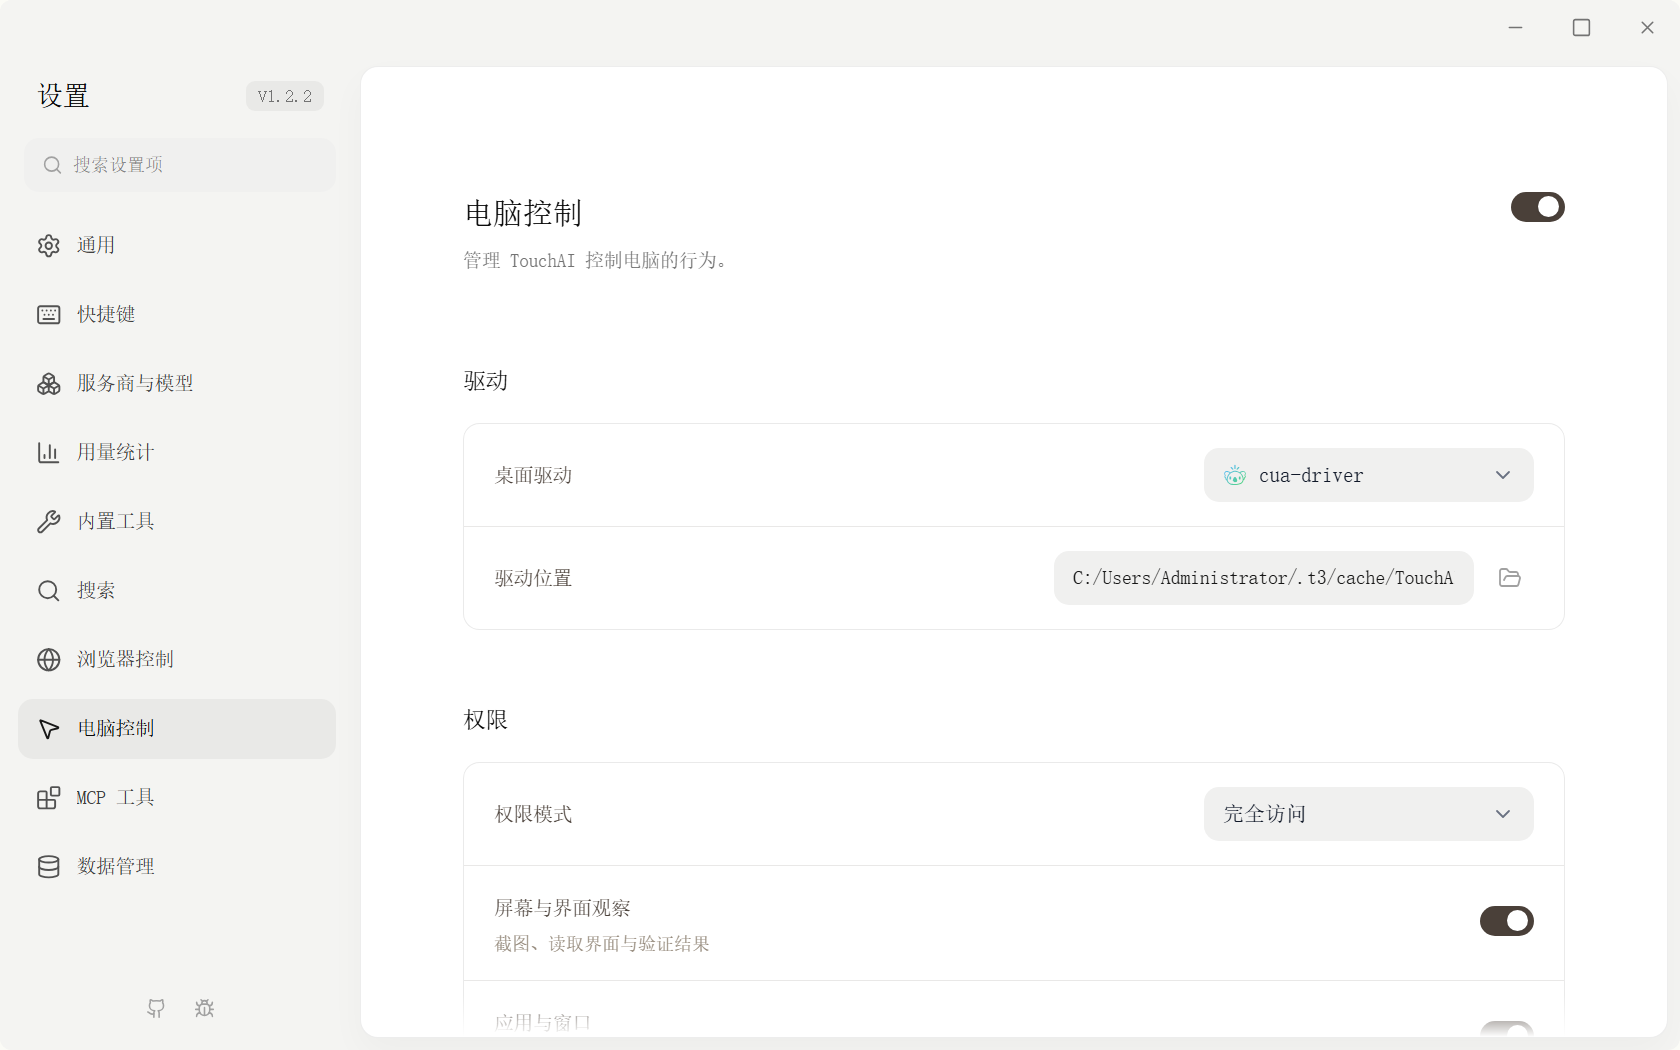
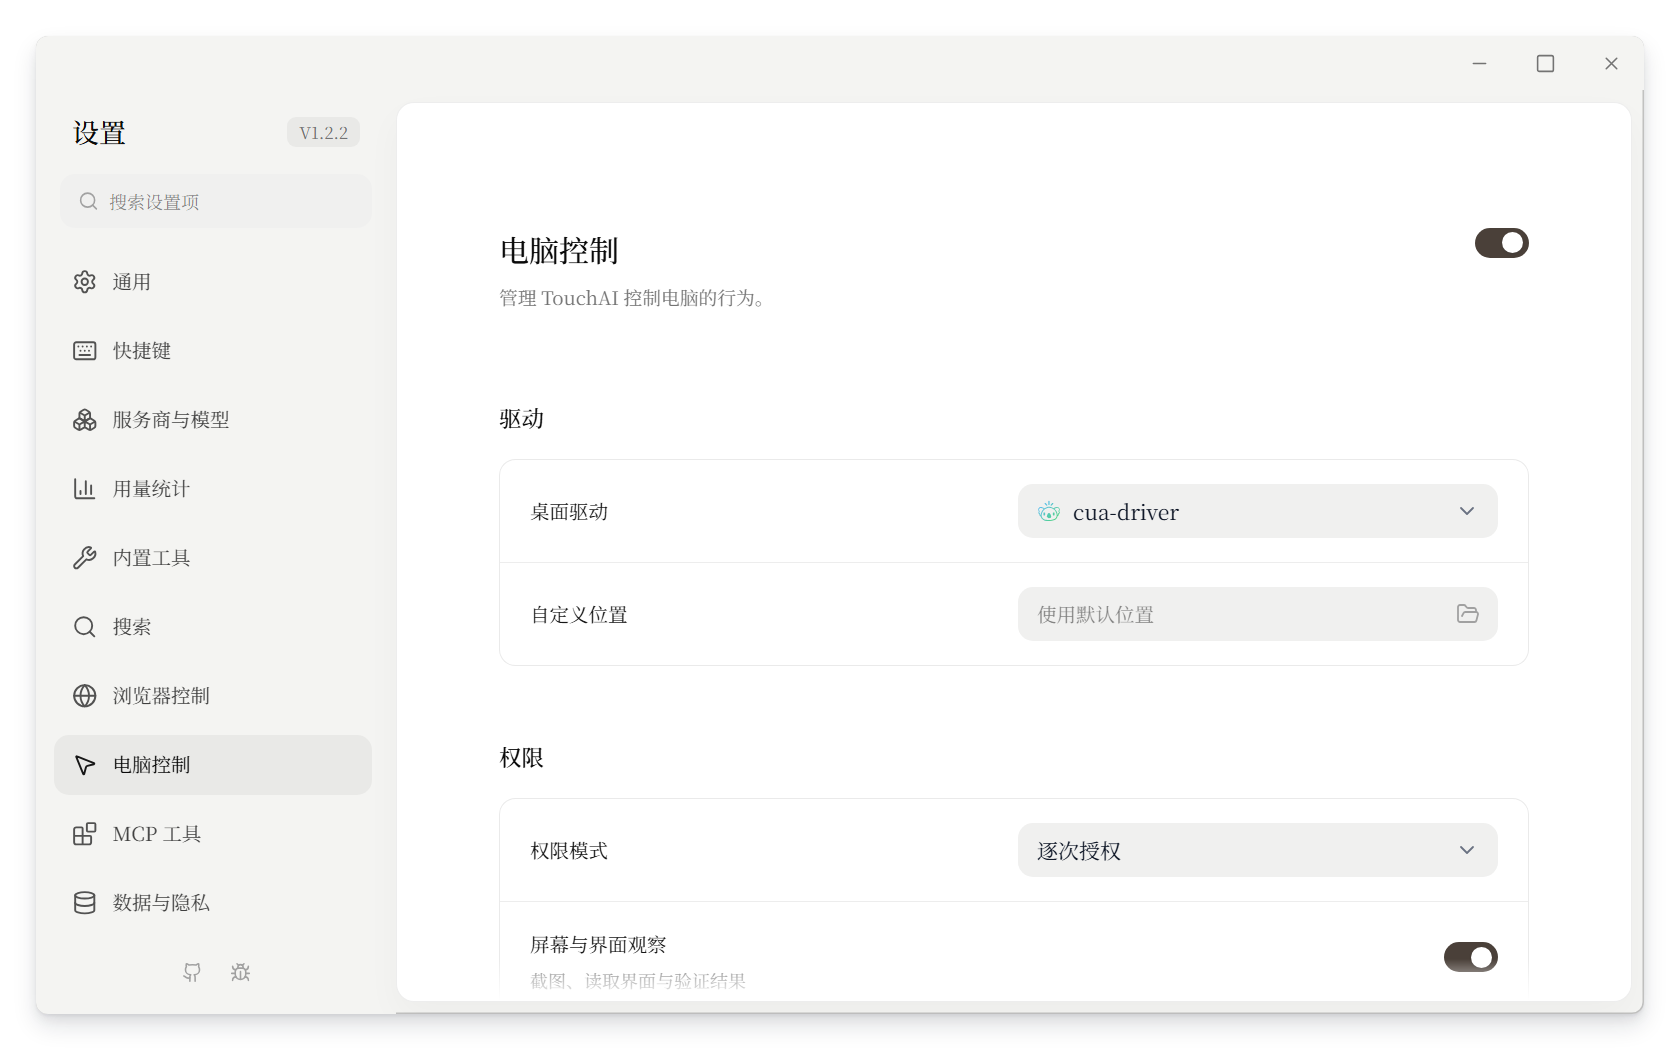
fix(settings): align computer control fields

diff --git a/apps/desktop/src/views/SettingsView/components/ComputerUse/index.vue b/apps/desktop/src/views/SettingsView/components/ComputerUse/index.vue
@@ -94,7 +94,7 @@
             }).format(bytes / 1_000_000);
             details.push(size);
         }
-        return details.join(' · ') || undefined;
+        return details.join(' ') || undefined;
     }
 
     const approvalOptions = computed(() =>
@@ -486,7 +486,6 @@
                         <SettingsRow
                             data-settings-search-target="computer-use-driver"
                             control-width="320"
-                            control-class="pr-10"
                             :label="t('settings.computerUse.field.driver')"
                             :description="status?.error || undefined"
                         >
@@ -570,27 +569,29 @@
                         <SettingsRow
                             data-settings-search-target="computer-use-driver-directory"
                             control-width="320"
-                            control-class="flex items-center gap-2"
+                            control-class="relative"
                             label-as="label"
                             label-for="computer-use-driver-directory"
                             :label="t('settings.computerUse.field.driverDirectory')"
                         >
-                            <div class="relative min-w-0 flex-1">
-                                <Input
-                                    id="computer-use-driver-directory"
-                                    data-testid="computer-use-driver-directory"
-                                    variant="filled"
-                                    :class="{ 'pr-9': driverDirectory }"
-                                    :model-value="driverDirectory"
-                                    :title="driverDirectory"
-                                    :disabled="driverDisabled"
-                                    readonly
-                                />
+                            <Input
+                                id="computer-use-driver-directory"
+                                data-testid="computer-use-driver-directory"
+                                variant="filled"
+                                :class="driverDirectory ? 'pr-18' : 'pr-10'"
+                                :model-value="driverDirectory"
+                                :placeholder="t('settings.computerUse.driverDirectory.default')"
+                                :title="driverDirectory"
+                                :disabled="driverDisabled"
+                                readonly
+                            />
+                            <div
+                                class="absolute top-1/2 right-1 flex -translate-y-1/2 items-center gap-1"
+                            >
                                 <Button
                                     v-if="driverDirectory"
                                     data-testid="computer-use-driver-directory-reset"
                                     variant="ghost-neutral"
-                                    class="absolute top-1/2 right-1 -translate-y-1/2"
                                     :aria-label="
                                         t('settings.computerUse.action.resetDriverDirectory')
                                     "
@@ -600,18 +601,19 @@
                                 >
                                     <AppIcon name="x" class="h-4 w-4" />
                                 </Button>
+                                <Button
+                                    data-testid="computer-use-driver-directory-pick"
+                                    variant="ghost-neutral"
+                                    :aria-label="
+                                        t('settings.computerUse.action.pickDriverDirectory')
+                                    "
+                                    :title="t('settings.computerUse.action.pickDriverDirectory')"
+                                    :disabled="driverDisabled"
+                                    @click="pickDriverDirectory"
+                                >
+                                    <AppIcon name="folder-open" class="h-4 w-4" />
+                                </Button>
                             </div>
-                            <Button
-                                data-testid="computer-use-driver-directory-pick"
-                                variant="ghost-neutral"
-                                class="shrink-0"
-                                :aria-label="t('settings.computerUse.action.pickDriverDirectory')"
-                                :title="t('settings.computerUse.action.pickDriverDirectory')"
-                                :disabled="driverDisabled"
-                                @click="pickDriverDirectory"
-                            >
-                                <AppIcon name="folder-open" class="h-4 w-4" />
-                            </Button>
                         </SettingsRow>
                     </div>
                 </section>
@@ -624,7 +626,6 @@
                         <SettingsRow
                             data-settings-search-target="computer-use-approval-mode"
                             control-width="320"
-                            control-class="pr-10"
                             :label="t('settings.computerUse.field.approval')"
                         >
                             <CustomSelect
@@ -703,7 +704,6 @@
                             v-if="selectedDriver === 'cua-driver'"
                             data-settings-search-target="computer-use-max-image"
                             control-width="320"
-                            control-class="pr-10"
                             :label="t('settings.computerUse.field.maxImage')"
                         >
                             <CustomSelect
@@ -734,7 +734,7 @@
                         <SettingsRow
                             v-if="settings.recordingEnabled"
                             control-width="320"
-                            control-class="flex items-center gap-2"
+                            control-class="relative"
                             label-as="label"
                             label-for="computer-use-recording-directory"
                             :label="t('settings.computerUse.field.recordingDirectory')"
@@ -743,7 +743,7 @@
                                 id="computer-use-recording-directory"
                                 data-testid="computer-use-recording-directory"
                                 variant="filled"
-                                class="min-w-0 flex-1"
+                                class="pr-10"
                                 :model-value="recordingDirectory"
                                 :title="recordingDirectory"
                                 :disabled="preferencesDisabled || pickingRecordingDirectory"
@@ -752,7 +752,7 @@
                             <Button
                                 data-testid="computer-use-recording-directory-pick"
                                 variant="ghost-neutral"
-                                class="shrink-0"
+                                class="absolute top-1/2 right-1 -translate-y-1/2"
                                 :aria-label="
                                     t('settings.computerUse.action.pickRecordingDirectory')
                                 "

diff --git a/apps/desktop/tests/views/SettingsView/computerUseSettings.test.ts b/apps/desktop/tests/views/SettingsView/computerUseSettings.test.ts
@@ -197,11 +197,11 @@ beforeEach(() => {
 
 describe('computer use settings section', () => {
     it.each([
-        ['zh-CN', '自定义位置'],
-        ['en-US', 'Custom location'],
+        ['zh-CN', '自定义位置', '使用默认位置'],
+        ['en-US', 'Custom location', 'Use default location'],
     ] as const)(
         'user given no custom location when opening settings in %s then sees an empty field without an internal path',
-        async (locale, label) => {
+        async (locale, label, placeholder) => {
             setLocale(locale);
             const wrapper = await mountPage();
             const input = wrapper.get<HTMLInputElement>(
@@ -209,6 +209,7 @@ describe('computer use settings section', () => {
             );
             expect(wrapper.get('label[for="computer-use-driver-directory"]').text()).toBe(label);
             expect(input.element.value).toBe('');
+            expect(input.attributes('placeholder')).toBe(placeholder);
             expect(input.attributes('title')).toBe('');
             expect(state.saveDriverDirectory).not.toHaveBeenCalled();
             expect(
@@ -271,7 +272,7 @@ describe('computer use settings section', () => {
             await mountDriverMenu();
             const cua = document.querySelector('[role="group"][aria-label="cua-driver"]');
             const agent = document.querySelector('[role="group"][aria-label="agent-desktop"]');
-            expect(cua?.textContent).toContain(`v0.38.0 · ${cuaSize}`);
+            expect(cua?.textContent).toContain(`v0.38.0 ${cuaSize}`);
             expect(agent?.textContent).not.toContain('MB');
         }
     );

diff --git a/apps/desktop/src/i18n/messages.ts b/apps/desktop/src/i18n/messages.ts
@@ -258,6 +258,7 @@ const zhCNMessages = {
     'settings.computerUse.field.status': '状态',
     'settings.computerUse.field.driver': '桌面驱动',
     'settings.computerUse.field.driverDirectory': '自定义位置',
+    'settings.computerUse.driverDirectory.default': '使用默认位置',
     'settings.computerUse.action.pickDriverDirectory': '选择自定义位置',
     'settings.computerUse.action.resetDriverDirectory': '恢复默认位置',
     'settings.computerUse.storage.failed': '无法更改驱动位置，请检查目录权限和剩余空间。',
@@ -1483,6 +1484,7 @@ const enUSMessages: Record<keyof typeof zhCNMessages, string> = {
     'settings.computerUse.field.status': 'Status',
     'settings.computerUse.field.driver': 'Desktop driver',
     'settings.computerUse.field.driverDirectory': 'Custom location',
+    'settings.computerUse.driverDirectory.default': 'Use default location',
     'settings.computerUse.action.pickDriverDirectory': 'Choose custom location',
     'settings.computerUse.action.resetDriverDirectory': 'Restore default location',
     'settings.computerUse.storage.failed':

diff --git a/docs/research/computer-use-settings.md b/docs/research/computer-use-settings.md
@@ -1,5 +1,24 @@
 # 电脑控制设置调研 — RFC #111 / PR #730
 
+## 输入控件右对齐与占位提示，2026-11-09
+
+Given 电脑控制设置页，When 查看驱动、权限、截图清晰度及两个目录控件，Then 所有
+输入框与下拉框等宽、右边缘贴齐设置行的内容边缘；目录按钮放在框内，不占额外外部宽度。
+When 自定义位置为空，Then 显示“使用默认位置”占位提示，英文为“Use default location”，
+不填入或保存内部路径。驱动列表中的版本和已安装体积用空格分隔。
+沿用 SettingsRow、Input、Button 和现有宽度档位；纯布局通过实际窗口测量与截图核对，
+不新增断言 CSS 类名的测试，现有位置与安装列表用例验证文案和交互。
+
+验证：原生 WebView 在中英文 × 1120×700 / 920×560 四种配置下，五个控件均宽 320 CSS px，
+右边缘与行内容边缘差小于 0.001px，无横向溢出。此前控件宽 280px，右侧空出 40px。
+路径按钮内置，空自定义位置显示占位文字；菜单实际显示 `v0.38.0 30.6 MB`，未安装项无体积。
+此次复用本机现有原生窗口壳，旧二进制的默认目录返回值与当前契约不同；空值、安装状态和
+录制路径使用仅作用于测试页的读取夹具，验证后移除，没有据此重报驱动安装或目录迁移通过。
+原生样式来自当前源码，字体为产品思源宋体；前后截图及几何记录为会话缓存
+`settings-alignment-1109-{before,after}*`。中英文占位提示与空格分隔的四个断言先失败，
+修复后设置测试 49/49、定向 ESLint、Prettier 通过。
+完整 `pnpm design:check` 为 0 errors / 47 warnings，未更改共享样式或设计系统组件。
+
 ## 前台自动光标回归，2026-11-09
 
 Given TouchAI 操作光标已开启、驱动自带叠层已关闭，When cua-driver 在前台移动真实鼠标，
